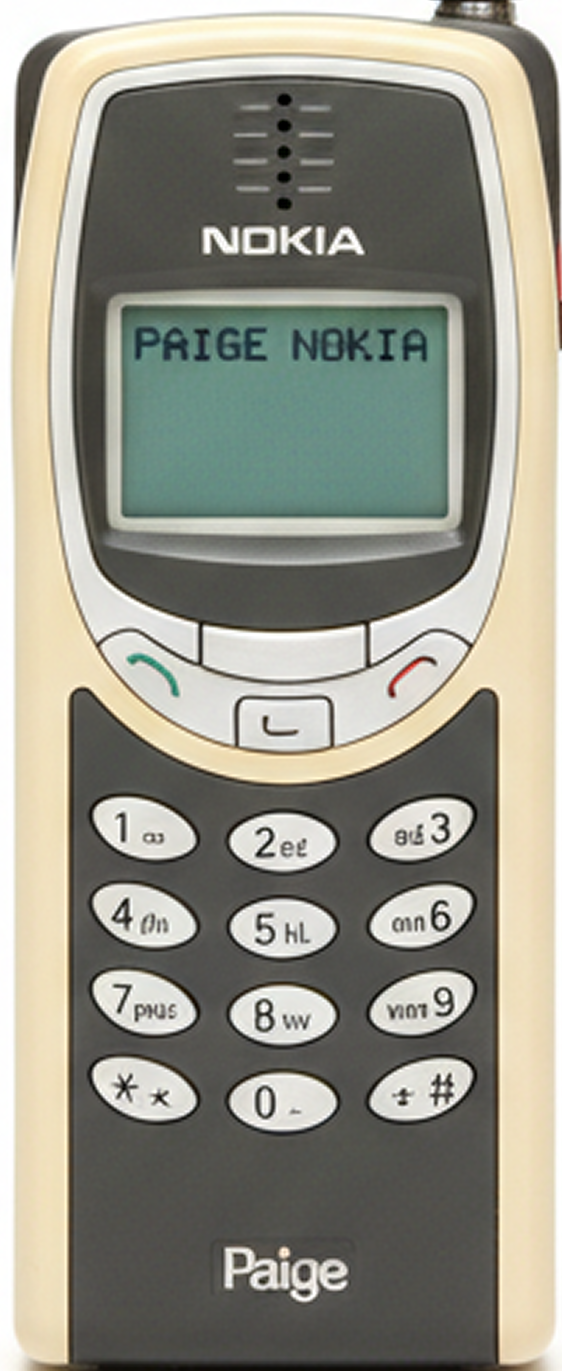
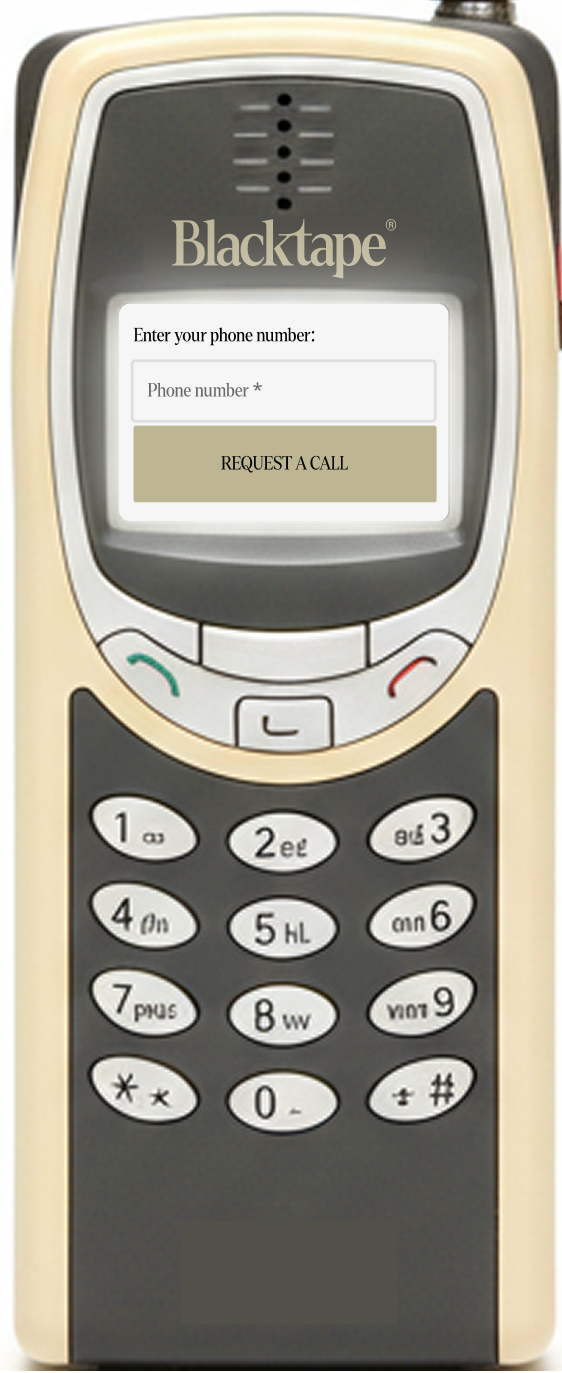
Adding the last 2 sections

diff --git a/src/components/InstantAIConnect.jsx b/src/components/InstantAIConnect.jsx
@@ -1,8 +1,7 @@
-import React, { useRef, useEffect } from "react";
+import { useRef } from "react";
 import { gsap } from "gsap";
-import { ScrollTrigger } from "gsap/ScrollTrigger";
-import antennaSmall from "/images/ai-antenna-1.png";
-import antennaLarge from "/images/ai-antenna-2.png";
+import { ScrollTrigger } from "gsap/all";
+import { useGSAP } from "@gsap/react";
 
 gsap.registerPlugin(ScrollTrigger);
 
@@ -10,161 +9,90 @@ const InstantAIConnect = () => {
   const sectionRef = useRef(null);
   const headerRef = useRef(null);
   const subtitleRef = useRef(null);
-  const phoneSmallRef = useRef(null);
-  const phoneLargeRef = useRef(null);
-  const textContentRef = useRef(null);
+  const phoneRef = useRef(null);
+  const textRef = useRef(null);
 
-  useEffect(() => {
+  useGSAP(() => {
     const section = sectionRef.current;
     const header = headerRef.current;
     const subtitle = subtitleRef.current;
-    const phoneSmall = phoneSmallRef.current;
-    const phoneLarge = phoneLargeRef.current;
-    const textContent = textContentRef.current;
+    const phone = phoneRef.current;
+    const text = textRef.current;
 
-    if (
-      !section ||
-      !header ||
-      !subtitle ||
-      !phoneSmall ||
-      !phoneLarge ||
-      !textContent
-    )
-      return;
+    if (!section || !header || !subtitle || !phone || !text) return;
 
     // Initial states
-    gsap.set(header, {
-      opacity: 1,
-      y: 0,
-    });
+    gsap.set(header, { opacity: 1, y: 0 });
+    gsap.set(subtitle, { opacity: 1, y: 0 });
+    gsap.set(phone, { opacity: 1, scale: 0.4, yPercent: 20 });
+    gsap.set(text, { opacity: 0, x: -150 });
 
-    gsap.set(subtitle, {
-      opacity: 1,
-      y: 0,
-    });
-
-    gsap.set(phoneSmall, {
-      opacity: 1,
-      scale: 1,
-    });
-
-    gsap.set(phoneLarge, {
-      opacity: 0,
-      scale: 0.5,
-    });
-
-    gsap.set(textContent, {
-      opacity: 0,
-      x: -200,
-    });
-
-    let hasScrolled = false;
-
-    const timeline = gsap.timeline({
+    const tl = gsap.timeline({
       scrollTrigger: {
-        trigger: "#instantaiconnect",
+        trigger: section,
         start: "top top",
         end: "+=200%",
         pin: true,
-        pinSpacing: true,
         scrub: 1,
-        onUpdate: (self) => {
-          const progress = self.progress;
-
-          // Auto-scroll to next section
-          if (progress >= 0.99 && self.direction === 1 && !hasScrolled) {
-            hasScrolled = true;
-            const nextSection = document.querySelector("#footer");
-
-            if (nextSection) {
-              setTimeout(() => {
-                const targetY =
-                  nextSection.getBoundingClientRect().top + window.scrollY;
-                window.scrollTo({ top: targetY, behavior: "smooth" });
-              }, 300);
-            }
-          }
-
-          if (progress < 0.99) {
-            hasScrolled = false;
-          }
-        },
       },
     });
 
-    // Phase 1: Header and subtitle move up and fade out (0-30%)
-    timeline.to(
+    // Phase 1: Header + subtitle fade up/out
+    tl.to(
       header,
       {
         opacity: 0,
         y: -100,
-        ease: "power2.in",
+        ease: "power2.inOut",
         duration: 0.3,
       },
       0
     );
 
-    timeline.to(
+    tl.to(
       subtitle,
       {
         opacity: 0,
         y: -50,
-        ease: "power2.in",
+        ease: "power2.inOut",
         duration: 0.3,
       },
       0
     );
 
-    // Phase 2: Small phone scales up and transitions to large phone (20-50%)
-    timeline.to(
-      phoneSmall,
+    // Phase 2: Phone scales up + moves up to right
+    tl.to(
+      phone,
       {
-        opacity: 0,
-        scale: 1.5,
-        ease: "power2.inOut",
-        duration: 0.3,
-      },
-      0.2
-    );
-
-    timeline.to(
-      phoneLarge,
-      {
-        opacity: 1,
         scale: 1,
-        ease: "power2.out",
-        duration: 0.3,
+        yPercent: 0,
+        xPercent: 50,
+        ease: "power2.inOut",
+        duration: 0.5,
       },
-      0.35
+      0.25
     );
 
-    // Phase 3: Text content slides in from left (50-80%)
-    timeline.to(
-      textContent,
+    // Phase 3: Text fades/slides in
+    tl.to(
+      text,
       {
         opacity: 1,
         x: 0,
         ease: "power2.out",
-        duration: 0.3,
+        duration: 0.4,
       },
       0.5
     );
-
-    return () => {
-      if (timeline.scrollTrigger) {
-        timeline.scrollTrigger.kill(true);
-      }
-      timeline.kill();
-    };
   }, []);
 
   return (
     <section
       ref={sectionRef}
       id="instantaiconnect"
-      className="w-full h-screen bg-white flex items-center justify-center relative overflow-hidden"
+      className="w-full h-screen bg-white relative overflow-hidden"
     >
-      {/* Header and Subtitle - Phase 1 */}
+      {/* Header */}
       <div className="absolute top-16 md:top-20 left-0 right-0 text-center px-4 z-10">
         <h2
           ref={headerRef}
@@ -181,34 +109,11 @@ const InstantAIConnect = () => {
         </p>
       </div>
 
-      {/* Small Phone - Initial State */}
-      <div
-        ref={phoneSmallRef}
-        className="absolute flex items-center justify-center mt-32 md:mt-40"
-      >
-        <div className="relative">
-          <img src={antennaSmall} alt="antenna" className="h-100" />
-          <div className="absolute top-[42%] left-[31%] bg-[#A8B2AA] rounded-sm p-[0.3rem] w-fit scale-[0.38] origin-bottom shadow-sm">
-            <p className="text-[0.45rem] text-black font-text mb-[0.2rem]">
-              Enter your phone number:
-            </p>
-            <div className="border-2 border-white rounded-sm px-[0.4rem] py-[0.25rem] bg-transparent">
-              <p className="text-[0.4rem] text-[#686a6a] font-text">
-                Phone number *
-              </p>
-            </div>
-            <button className="bg-[#353938] text-white rounded-sm w-full py-[0.25rem] mt-[0.3rem] text-[0.45rem] font-text">
-              REQUEST A CALL
-            </button>
-          </div>
-        </div>
-      </div>
-
-      {/* Layout Container for Large Phone and Text */}
+      {/* Phone + Text */}
       <div className="absolute inset-0 flex items-center justify-center px-8 lg:px-16">
         <div className="w-full max-w-7xl flex flex-row items-center justify-between gap-12">
-          {/* Left Text Content - Phase 3 */}
-          <div ref={textContentRef} className="max-w-md flex-shrink-0">
+          {/* Left Text */}
+          <div ref={textRef} className="max-w-md flex-shrink-0">
             <h3 className="font-header font-extrabold text-black leading-tight text-3xl sm:text-4xl md:text-5xl">
               Instant AI Connect
             </h3>
@@ -231,23 +136,17 @@ const InstantAIConnect = () => {
             </p>
           </div>
 
-          {/* Large Phone - Phase 2 */}
-          <div ref={phoneLargeRef} className="flex-shrink-0">
+          {/* Phone */}
+          <div
+            ref={phoneRef}
+            className="absolute flex-shrink-0 left-[50%] transform -translate-x-1/2 "
+          >
             <div className="relative w-64 sm:w-72 md:w-96 lg:w-[28rem]">
-              <img src={antennaLarge} alt="antenna" className="w-full h-auto" />
-              <div className="absolute top-[21%] left-[22%] bg-[#f5f5f5] rounded-lg p-[0.5rem] w-[59%] h-[17%] origin-bottom shadow-md flex flex-col justify-center gap-1.5">
-                <p className="text-[1rem] text-black font-text mb-[0.4rem] tracking-normal">
-                  Enter your phone number:
-                </p>
-                <div className="border border-[#d0d0d0] rounded px-[0.8rem] py-[0.5rem] mb-[0.5rem] bg-white">
-                  <p className="text-[0.85rem] text-[#9ca3af] font-text">
-                    Phone number *
-                  </p>
-                </div>
-                <button className="bg-[#c3b896] text-[#2d2d2d] rounded-sm w-full py-[0.65rem] text-[0.9rem] font-semibold tracking-wide">
-                  REQUEST A CALL
-                </button>
-              </div>
+              <img
+                src="images/ai-antenna-2.png"
+                alt="antenna"
+                className="w-full h-auto"
+              />
             </div>
           </div>
         </div>

diff --git a/src/components/BlacktapeFooter.jsx b/src/components/BlacktapeFooter.jsx
@@ -1,8 +1,3 @@
-import React from "react";
-import footerBg from "/images/Footer Picture.png";
-import footerLogo from "/images/footer-logo.svg";
-import blacktape from "/images/Blacktape Footer.png";
-
 const BlacktapeFooter = () => {
   return (
     <section
@@ -12,7 +7,7 @@ const BlacktapeFooter = () => {
       {/* Background Image */}
       <div className="absolute inset-0">
         <img
-          src={footerBg}
+          src="images/Footer Picture.png"
           alt="footer background"
           className="w-full h-full object-cover object-bottom"
         />
@@ -25,14 +20,14 @@ const BlacktapeFooter = () => {
           <div className="flex flex-col md:flex-row items-center justify-between md:mb-10">
             {/* Blacktape logo */}
             <img
-              src={blacktape}
+              src="images/Blacktape Footer.png"
               alt="Blacktape Logo"
               className="h-20 md:h-32 lg:h-40 object-contain"
             />
 
             {/* Circular logo */}
             <img
-              src={footerLogo}
+              src="images/footer-logo.svg"
               alt="Blacktape Emblem"
               className="h-20 md:h-35 lg:h-40 object-contain mt-6 md:mt-0 hidden md:block"
             />

diff --git a/src/App.jsx b/src/App.jsx
@@ -50,10 +50,8 @@ function App() {
           <OurTeam />
           <DigitalSovereignty />
           <TrustedClients />
-          <BlacktapeFooter />
-          {/* 
           <InstantAIConnect />
-           */}
+          <BlacktapeFooter />
         </>
       )}
     </main>
